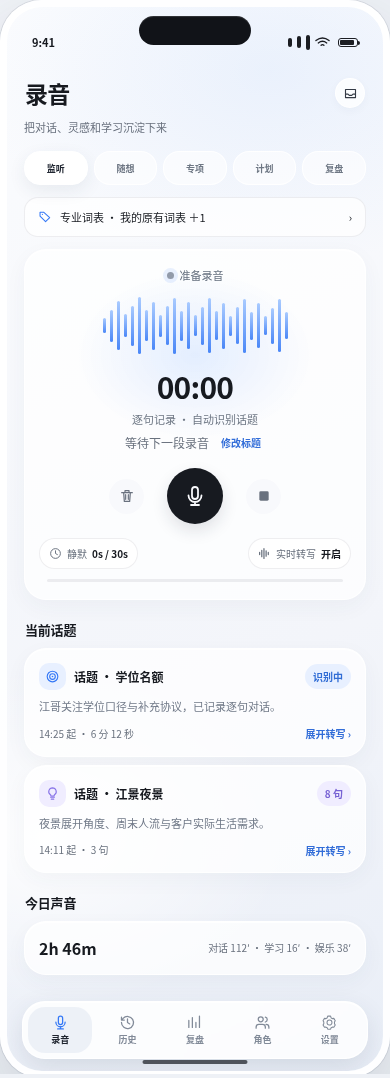
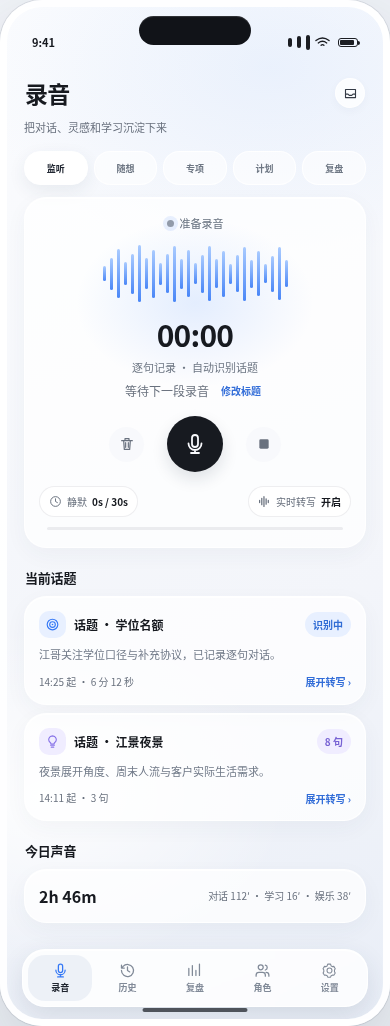
fix: remove recording shortcut and flatten role voice enrollment

diff --git a/tests/preview_v14.py b/tests/preview_v14.py
@@ -66,17 +66,17 @@ with sync_playwright() as p:
         screenshots.append({'file': 'screenshots/' + name + '.png', 'height': round(dimensions['height'])})
 
     fresh()
-    assert page.title().endswith('v1.4')
-    ok('Initial render has the v1.4 title and no JavaScript error')
+    assert page.title().endswith('v1.4.1')
+    ok('Initial render has the v1.4.1 title and no JavaScript error')
     capture('01-recording-full')
-    click('lexicon-session')
-    capture('01-01-session-lexicons')
-    page.locator('[data-lex-session="finance"]').check()
-    click('lexicon-use-session')
-    click('toggle-record')
-    click('finish-record')
-    assert len(state()['sessions'][0]['lexiconSnapshot']['packs']) == 3
-    ok('A session override is frozen into the saved recording snapshot')
+    for mode in ('监听','随想','专项','计划','复盘'):
+        page.locator(f'#modeRow [data-mode="{mode}"]').click()
+        assert page.locator('#screen-record [data-action="lexicon-session"]').count() == 0
+        assert page.locator('#screen-record .lexicon-record').count() == 0
+    page.locator('#modeRow [data-mode="监听"]').click()
+    click('toggle-record');click('finish-record')
+    assert {p['id'] for p in state()['sessions'][0]['lexiconSnapshot']['packs']} == {'legacy','luxury'}
+    ok('Recording has no added lexicon entry in all five modes and uses default packs in the background')
     nav('history')
     capture('02-history-recordings')
     page.locator('[data-history-tab="复盘"]').click()
@@ -137,42 +137,57 @@ with sync_playwright() as p:
     ok('Restoring a legacy backup migrates string hotwords into the professional pack without loss')
     fresh();nav('roles')
     capture('05-roles-full')
-    click('new-role')
-    capture('05-01-create-role-paths')
-    assert page.locator('#appOverlay .entry-choice').count() == 3
-    click('role-name')
-    capture('05-01-01-name-enrollment')
-    page.locator('#newRoleName').fill('历史认领测试')
-    click('role-create-next')
-    capture('05-01-01-01-pending-voice')
+    click('role',id='r1')
+    capture('05-01-role-detail')
     expect(page.locator('#appOverlay')).to_contain_text('尚无声纹样本')
-    assert not state()['roles'][-1]['autoMatch']
+    assert not next(r for r in state()['roles'] if r['id']=='r1')['autoMatch']
+    assert page.locator('#appOverlay [data-action="role-voice"]').count()==0
     click('role-history-match')
-    capture('05-01-01-02-history-enrollment')
+    capture('05-01-01-history-enrollment')
     page.locator('[data-history-voice="v1"]').check()
     page.locator('[data-history-voice="v2"]').check()
     click('role-history-confirm')
-    role=state()['roles'][-1]
-    assert role['voiceIds'] == ['v1','v2'] and role['autoMatch']
-    ok('Name-only creation needs explicit historical enrollment before automatic matching')
+    role=next(r for r in state()['roles'] if r['id']=='r1')
+    assert role['voiceIds']==['v1','v2'] and role['autoMatch']
+    ok('Historical enrollment is reached directly from existing role details without an extra manager page')
     click('voices');click('voice-match-run')
     capture('05-02-04-known-role-matching')
     expect(page.locator('#appOverlay')).to_contain_text('示例规则通过')
     click('voice-match-apply')
     data=state()
-    assert {v['id'] for v in data['voices']} == {'v4','v5'}
-    assert data['roles'][-1]['voiceIds'] == ['v1','v2']
-    ok('Fixture matching assigns only the qualifying voice without training its result back into the template')
-    fresh();nav('roles');click('new-role');click('role-sample')
-    page.locator('#newRoleName').fill('主动采样测试')
-    click('role-create-next')
-    capture('05-01-02-sample-enrollment')
-    page.clock.install();click('sample-start');page.clock.run_for(8500)
-    expect(page.locator('#appOverlay')).to_contain_text('确认声纹样本')
-    capture('05-01-02-01-sample-confirmation')
-    click('sample-save')
-    assert state()['roles'][-1]['autoMatch']
-    ok('Explicit sample demonstration proceeds from recording to confirmation and role creation')
+    assert {v['id'] for v in data['voices']}=={'v4','v5'}
+    assert next(r for r in data['roles'] if r['id']=='r1')['voiceIds']==['v1','v2']
+    ok('Fixture matching assigns only qualifying voices without training results back into the template')
+    fresh();nav('roles');click('new-role')
+    capture('05-03-direct-role-recorder')
+    assert page.locator('#appOverlay .entry-choice').count()==0
+    assert page.locator('#appOverlay [data-action="role-name"],#appOverlay [data-action="role-sample"],#appOverlay [data-action="voices"]').count()==0
+    expect(page.locator('#appOverlay [data-action="sample-save"]')).to_be_disabled()
+    assert page.locator('#appOverlay [aria-label="关闭"]').count()==1
+    page.locator('#newRoleName').fill('同页采样测试')
+    page.locator('#newRoleTag').select_option('朋友')
+    click('new-avatar-pick',value='m2')
+    page.clock.install();click('sample-start');click('sample-stop')
+    expect(page.locator('#appOverlay')).to_contain_text('录制中')
+    page.clock.run_for(3500);click('sample-stop')
+    expect(page.locator('#appOverlay')).to_contain_text('样本已就绪')
+    capture('05-03-01-sample-ready-inline')
+    assert page.locator('#newRoleName').input_value()=='同页采样测试'
+    assert page.locator('#newRoleTag').input_value()=='朋友'
+    assert page.locator('#appOverlay [aria-label="关闭"]').count()==1
+    ok('The plus button opens one recording form; finishing keeps fields and the ready state in that same page')
+    click('sample-redo');page.clock.run_for(100)
+    expect(page.locator('#appOverlay [data-action="sample-save"]')).to_be_disabled()
+    click('sample-start');page.clock.run_for(8500);click('sample-save')
+    role=state()['roles'][-1]
+    assert role['autoMatch'] and role['name']=='同页采样测试' and role['avatar']=='m2'
+    assert page.locator('#appOverlay.open').count()==0
+    ok('Retry and saving stay in one workflow and return to the role list without another manager page')
+    fresh();nav('roles');before_roles=len(state()['roles']);click('new-role')
+    page.locator('#newRoleName').fill('取消测试');click('sample-start');click('close')
+    page.clock.run_for(1500)
+    assert len(state()['roles'])==before_roles and page.locator('#appOverlay.open').count()==0
+    ok('Closing the recorder cancels its timer and never creates a partial role')
     fresh();nav('roles');click('voices')
     capture('05-02-manual-voice-pool')
     page.locator('[data-voice="v1"]').check();page.locator('[data-voice="v2"]').check()

diff --git a/docs/review-v1.4/README.md b/docs/review-v1.4/README.md
@@ -1,6 +1,14 @@
-# v1.4 改版审核：历史、角色声纹与专业词表
+# v1.4.1 改版审核：移除多余入口，新增角色同页录制
 
 > 2026-11-17｜HTML 交互预览。历史三分类和设置分组已由用户确认；声纹生产算法、参数与 Android 实现仍待评测审核。下面均为 **HTML 浏览器截图**，不是 Android 或真实模型运行截图。
+
+## 本轮用户纠正（优先于 v1.4）
+
+1. 删除录音主屏自行增加的专业词表入口，词表仍在设置管理。
+2. 角色页“＋”直接进入录制声纹；不再出现三选一选择页。姓名、标签、头像、录制、结束、重录与保存在同一页，不增加“下一步录制”或独立确认页。
+3. 保存后回角色列表，不自动再打开声纹管理；已有角色的声纹操作直接放在角色详情，去掉中间管理页。陌生池只保留角色主屏原有入口。
+
+旧版被取消的入口截图移入 `archive-v1.4`，仅供历史追溯；本轮以 checks.json 所列截图为准。
 
 ## 按数字对照差异与修改
 
@@ -8,14 +16,14 @@
 | --- | --- | --- | --- |
 | 01 | “每日复盘”实际是 8 分钟复盘录音，与日报混用 | 历史分每日复盘 / 复盘录音 / 计划记录；每日报告独立保存和展示 | 三类切换，日报可查看简介、亮点、偏差、下一步和来源；原录音仍可打开 |
 | 02 | 经验卡名称与复盘重复区域 | 顶部叫经验卡；整理、确认集中历史；移除复盘整个经验区 | 待确认/已存入可切换；手动整理仍可进入；复盘无残留模块 |
-| 03 | 新增角色只有名称表单 | 新增名称建档、录制声纹、陌生池合成三路径 | 每条入口分别打开下级页，返回不串入其他模式 |
-| 04 | 建名字被误认为已有声纹 | 名称角色标待采样，先从历史认领样本，再允许自动匹配 | 无样本时开关禁用；认领后来源和模板版本可见 |
-| 05 | 主动录制只有说明文字 | 增加录制、计时、样本确认、重录、保存演示 | 计时、过短提示、确认保存可操作；明确未调用麦克风或声纹模型 |
+| 03 | 新增角色被拆成三选一并不断跳页 | 点“＋”直接打开录制声纹，资料与录制同页 | 没有名称建档/卡池合成选项，没有“下一步录制”；保存回列表 |
+| 04 | 已有角色的声纹入口多套一层管理 | 声纹状态、开关、历史认领、补录直接放角色详情 | 不再需要“管理声纹”中间页；无样本不能自动匹配 |
+| 05 | 录制和样本确认又分开页面 | 录制、结束、就绪、重录和保存都原地更新 | 资料不丢、关闭取消、保存后不再弹管理页；仍标明示例 |
 | 06 | 陌生池变成平铺卡，手动/自动混在一起 | 恢复概览、自动合成设置、手动勾选/自动聚集和底部操作 | 多选计数正确；自动页按声线分组；切换页面不修改自动策略 |
 | 07 | 合成目标不清楚 | 明确“合成新人物 / 并入旧人物”，切换保留草稿 | 只归属所选片段，关联语录更新，原始来源保留，可撤销 |
 | 08 | 缺自动匹配机制和纠错约束 | 示例相似度驱动约束聚集；支持拆组、不得再并；已有角色用可信种子匹配 | 无模板不推断身份；符合规则的示例自动归属；结果不直接训练回模板 |
 | 09 | 扁平热词逐词勾选 | 升级为专业包多选、详情编辑、新建、导入/导出和复制 | 点击专业名与勾选分开；编辑增加版本并持久化 |
-| 10 | 词表是否影响本次录音不清楚 | 增加本次选择与冻结快照；明确 SenseVoice 仅后置规整 | 本次覆盖不改默认；后续编辑不改快照；旧记录标未知版本 |
+| 10 | 录音屏被额外加上专业词表入口 | 删除新增行，只在设置管理默认词表；后台冻结快照 | 五种录音模式均无新增词表行，默认词表仍可自动使用 |
 | 11 | 评分和角色标签分散 | 新增“复盘与角色”，移动两个原入口 | 原页面可打开；不新增独立角色分类功能 |
 
 ## 主屏与下级页完整长图
@@ -24,8 +32,7 @@
 
 | 页面 / 点击顺序 | 长图 | 本屏验收清单 |
 | --- | --- | --- |
-| 01 录音 | [主屏](screenshots/01-recording-full.png) | 五模式、词表入口、开始/暂停/结束、转写、今日声音 |
-| 01-01 本次词表 | [选择弹层](screenshots/01-01-session-lexicons.png) | 整包多选、本次使用、管理默认、进入详情、关闭取消 |
+| 01 录音 | [主屏](screenshots/01-recording-full.png) | 五模式、开始/暂停/结束、转写、今日声音；不再有新增词表入口 |
 | 02 历史 | [录音列表](screenshots/02-history-recordings.png) | 顶部三栏、日期、周统计、筛选、录音详情 |
 | 02-01 每日复盘 | [列表](screenshots/02-01-daily-reviews.png) / [详情](screenshots/02-01-01-daily-review-detail.png) | 简介与报告类型正确，详情来源可进入原录音 |
 | 02-02 复盘录音 | [复盘录音](screenshots/02-02-review-recordings.png) | 只显示复盘模式，不冒充日报 |
@@ -36,9 +43,8 @@
 | 04-01 专业词表 | [词表库](screenshots/04-01-lexicon-library.png) / [详情](screenshots/04-01-01-professional-pack.png) | 整包勾选、点入编辑、新建/导入、复制/导出/删除、能力状态 |
 | 04-01-01 词条 | [编辑表单](screenshots/04-01-01-01-term-editor.png) / [新包空态](screenshots/04-01-02-new-pack-empty.png) | 标准词、类型、别名、错词、拼音、备注、启停/保存/删除 |
 | 05 角色 | [角色主屏](screenshots/05-roles-full.png) | 详情、标签/头像、新增、声纹池、语录、归档 |
-| 05-01 新增 | [三种路径](screenshots/05-01-create-role-paths.png) | 名称建档、录制声纹、陌生池合成 |
-| 05-01-01 名称 | [表单](screenshots/05-01-01-name-enrollment.png) / [待采样](screenshots/05-01-01-01-pending-voice.png) / [历史认领](screenshots/05-01-01-02-history-enrollment.png) | 姓名/标签/头像、保存、待采样、认领片段、自动匹配条件 |
-| 05-01-02 采样 | [录制页](screenshots/05-01-02-sample-enrollment.png) / [确认样本](screenshots/05-01-02-01-sample-confirmation.png) | 开始/结束、计时、过短提示、重录、保存和返回 |
+| 05-01 已有角色 | [角色详情](screenshots/05-01-role-detail.png) / [历史认领](screenshots/05-01-01-history-enrollment.png) | 状态、自动匹配、认领和补录直接进入，无中间管理页 |
+| 05-03 新增角色 | [直接录制](screenshots/05-03-direct-role-recorder.png) / [同页样本就绪](screenshots/05-03-01-sample-ready-inline.png) | 姓名/标签/头像、开始/结束、过短提示、重录、保存和关闭；全程同页 |
 | 05-02 陌生池 | [手动长图](screenshots/05-02-manual-voice-pool.png) / [自动聚集长图](screenshots/05-02-03-automatic-clusters.png) | 自动开关、页签、多选计数、来源、合成、重新聚集、拆组 |
 | 05-02-01 合成 | [新人物](screenshots/05-02-01-synthesize-new-person.png) / [旧人物](screenshots/05-02-02-merge-existing-person.png) | 新名称/标签、已有角色选择、草稿、确认/取消与撤销 |
 | 05-02-04 自动匹配 | [匹配结果](screenshots/05-02-04-known-role-matching.png) | 有依据才推荐、无模板保留未知、规则通过才归属、不自我训练 |

diff --git a/README.md b/README.md
@@ -2,12 +2,12 @@
 
 在线预览：**https://perfectyxs.github.io/tingdaohtml/**
 
-当前改版：**v1.4 · 2026-11-17**。HTML 是独立仓库；Android、唯一系统架构和 APK 发布位于 [Perfectyxs/Earthonline](https://github.com/Perfectyxs/Earthonline)。
+当前改版：**v1.4.1 · 2026-11-17**。HTML 是独立仓库；Android、唯一系统架构和 APK 发布位于 [Perfectyxs/Earthonline](https://github.com/Perfectyxs/Earthonline)。
 
 - 历史复盘分 **每日复盘 / 复盘录音 / 计划记录**；经验卡集中在历史。
-- 新增角色分 **名称建档 / 主动录制声纹 / 从陌生声纹合成**。
+- 新增角色点“＋”直接打开录制声纹，姓名、标签、头像、录制、重录和保存在同一页完成；取消三选一和中间确认页。
 - 陌生声纹保留 **手动勾选 / 自动聚集**，可合成新人物或并入旧人物；支持拆组和撤销归属。
-- 专业词表按整包多选、进入编辑；录音保存本次词表快照。
+- 专业词表只从设置管理，录音页不新增词表入口；录音后台沿用默认选择并保存快照。
 - 设置新增“复盘与角色”，移动评分权重和角色标签。
 
 [逐页长截图、差异与验收记录](docs/review-v1.4/README.md) · [浏览器验证结果](docs/review-v1.4/checks.json)

diff --git a/docs/review-v1.4/archive-v1.4/README.md b/docs/review-v1.4/archive-v1.4/README.md
@@ -1,0 +1,11 @@
+# v1.4 已取消入口的历史截图
+
+这些是用户本轮取消的录音词表行、三选一和多层新增角色流程，仅用于追溯，不是当前预览。当前截图见 [最新审核页](../README.md)。
+
+- [01-01-session-lexicons.png](01-01-session-lexicons.png)
+- [05-01-01-01-pending-voice.png](05-01-01-01-pending-voice.png)
+- [05-01-01-02-history-enrollment.png](05-01-01-02-history-enrollment.png)
+- [05-01-01-name-enrollment.png](05-01-01-name-enrollment.png)
+- [05-01-02-01-sample-confirmation.png](05-01-02-01-sample-confirmation.png)
+- [05-01-02-sample-enrollment.png](05-01-02-sample-enrollment.png)
+- [05-01-create-role-paths.png](05-01-create-role-paths.png)
